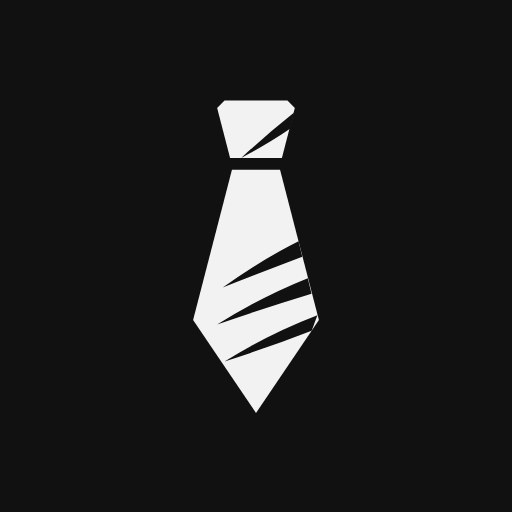
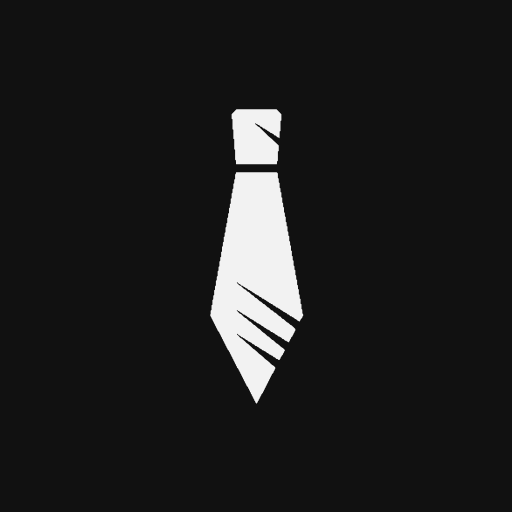
[продукт] Знак v2 вместо K3: значки, превью, экраны запуска, панель и вход

Changed region(s): [[0.375, 0.1875, 0.625, 0.8125]]

diff --git a/src/gas_pult/web/index.html b/src/gas_pult/web/index.html
@@ -85,9 +85,10 @@
   .toprow { padding: 8px 8px 8px 12px; display: flex; align-items: center; gap: 4px; }
   .tabsbar { padding: 0 12px 8px; } .tabsbar .seg { margin: 0; }
   .titles { flex: 1; min-width: 0; padding: 0 4px; }
-  .gmark { flex: none; color: var(--text-primary); }   /* знак K3: цвет — из темы (currentColor) */
-  .nmark { width: 18px; height: 18px; margin-right: -2px; } .lmark { display: block; width: 44px; height: 44px; margin: 4px 0 8px; }
-  .tmark { display: none; width: 24px; height: 24px; margin-left: 2px; } body:has(#title.brand-text) .tmark { display: block; }
+  .gmark { flex: none; display: inline-block; color: var(--text-primary); background: currentColor;   /* знак v2: цвет — из темы */
+           -webkit-mask: url(brand/gavrila-mark.svg) center / contain no-repeat; mask: url(brand/gavrila-mark.svg) center / contain no-repeat; }
+  .nmark { width: 9px; height: 22px; margin: 0 4px 0 2px; } .lmark { display: block; width: 20px; height: 54px; margin: 4px 0 8px; }
+  .tmark { display: none; width: 10px; height: 26px; margin: 0 2px 0 4px; } body:has(#title.brand-text) .tmark { display: block; }
   body.no-dup.has-nav:not(.side-mini) #top .tmark { visibility: hidden; }   /* на ПК знак — в панели, сверху не дублируем */
   .top h1 { margin: 0; font-size: calc(18px * var(--fz, 1)); font-weight: 600; letter-spacing: -.01em; line-height: 1.33; overflow: hidden; text-overflow: ellipsis; white-space: nowrap; }
   .sub { color: var(--text-secondary); font-size: calc(13px * var(--fz, 1)); display: flex; align-items: center; gap: 6px; min-width: 0; }
@@ -1127,7 +1128,6 @@
 </style>
 </head>
 <body>
-<svg width="0" height="0" style="position:absolute" aria-hidden="true"><symbol id="gmk" viewBox="0 0 100 100"><defs><mask id="gmkM"><rect width="100" height="100" fill="#fff"/><g fill="#000"><path d="M41 58.5 Q51.5 51 61.5 46 L62.5 50.2 Q52.5 54 41 58.5 Z"/><path d="M39.5 68.5 Q51.5 61 64 56 L65 60.2 Q52.5 64 39.5 68.5 Z"/><path d="M41.5 78.5 Q53.5 71 66.6 66 L65.04 70.2 Q54 74.5 41.5 78.5 Z"/><path d="M46 23.5 Q53 17 60.3 11.2 L59.2 15.6 Q53.5 19.5 46 23.5 Z"/></g></mask></defs><g fill="currentColor" mask="url(#gmkM)"><path d="M41.5 8 H58.5 L60.5 10 L57 23.5 H43 L39.5 10 Z"/><path d="M43.5 26.7 H56.5 L67 67.3 L50 92.4 L33 67.3 Z"/></g></symbol><symbol id="gmks" viewBox="0 0 100 100"><defs><mask id="gmkS"><rect width="100" height="100" fill="#fff"/><g fill="#000"><path d="M39 62 Q51 54 63 48 L65 55 Q53 59 39 62 Z"/><path d="M40 78 Q53 70 67.5 64.5 L66.5 72 Q55 75 40 78 Z"/><path d="M45 24 Q53 16 62 9.5 L60 16.5 Q53.5 20.5 45 24 Z"/></g></mask></defs><g fill="currentColor" mask="url(#gmkS)"><path d="M40 6 H60 L62.5 8.5 L58 23 H42 L37.5 8.5 Z"/><path d="M42.5 27 H57.5 L69 67 L50 94 L31 67 Z"/></g></symbol></svg>
 <div class="pvbar" id="previewBar" hidden role="status"></div>
 <!-- Зона уведомлений: всё всплывающее — здесь, под шапкой и выше нижней панели (NOTICES и notice() в скрипте). -->
 <div class="notices" id="notices">
@@ -1135,7 +1135,7 @@
   <div class="net" id="net" hidden role="status"><span id="netIcon" style="flex:none"></span><span id="netText">Нет связи с сервером</span><button id="netRetry"></button></div>
 </div>
 <aside class="nav" id="nav" aria-label="Чаты" inert>
-  <div class="nav-h"><svg class="gmark nmark" aria-hidden="true"><use href="#gmks"/></svg><h2 class="serif brand-text"><button type="button" id="navHome" class="nav-home" title="Главная: сессии и проекты">Гаврила</button></h2>
+  <div class="nav-h"><span class="gmark nmark" aria-hidden="true"></span><h2 class="serif brand-text"><button type="button" id="navHome" class="nav-home" title="Главная: сессии и проекты">Гаврила</button></h2>
     <button class="icon" id="navSearchBtn" type="button" aria-label="Поиск (Ctrl+K)" title="Поиск (Ctrl+K)"></button>
     <button class="icon" id="navFoldBtn" type="button" aria-label="Свернуть всё" title="Свернуть всё"></button>
     <button class="icon" id="navMoreBtn" type="button" aria-label="Ещё: новая папка, из модуля, в фокусе" title="Ещё" aria-haspopup="menu" aria-expanded="false"></button>
@@ -1156,7 +1156,7 @@
   <div class="toprow">
     <button class="icon" id="navBtn" hidden aria-label="Список чатов"></button>
     <button class="icon" id="backBtn" hidden aria-label="Назад"></button>
-    <svg class="gmark tmark" aria-hidden="true"><use href="#gmks"/></svg><div class="titles"><h1 class="serif" id="title">Гаврила</h1><div class="sub" id="subtitle"><span>загружаю…</span></div></div>
+    <span class="gmark tmark" aria-hidden="true"></span><div class="titles"><h1 class="serif" id="title">Гаврила</h1><div class="sub" id="subtitle"><span>загружаю…</span></div></div>
     <button class="icon" id="composeBtn" hidden aria-label="Новый чат" title="Новый чат"></button>
     <button class="icon" id="switchBtn" hidden aria-label="Другой чат"></button>
     <button class="icon" id="screenBtn" data-tour="screen" hidden aria-label="Экран терминала"></button>
@@ -1171,7 +1171,7 @@
   <section id="login" hidden>
     <div class="panel">
       <div class="scn-opts s-langsw" id="loginLang" role="group"></div>
-      <svg class="gmark lmark" aria-hidden="true"><use href="#gmk"/></svg><h2 class="serif" style="margin:2px 0 6px;font-size:21px" data-l="login.title">Вход</h2>
+      <span class="gmark lmark" aria-hidden="true"></span><h2 class="serif" style="margin:2px 0 6px;font-size:21px" data-l="login.title">Вход</h2>
       <p class="note" style="margin:0 0 12px" data-l="login.note">Пароль не нужен: подтвердите вход в своём Telegram. Нет доступа — бот спросит владельца.</p>
       <div id="loginStep1">
         <div class="result ok" id="inviteNote" hidden></div>

diff --git a/tools/brand_images.py b/tools/brand_images.py
@@ -1,4 +1,5 @@
-"""Картинки бренда из знака K3 (web/brand/gavrila-mark.svg): превью ссылки (og), экраны запуска iOS, maskable-иконка.
+"""Картинки бренда из знака v2 (web/brand/gavrila-mark.svg, lockup — gavrila-lockup.svg): значки вкладки и экрана
+«Домой», превью ссылки (og), экраны запуска iOS, maskable-иконка.
 Рисует браузер (Playwright, как в тестах интерфейса) — без новых зависимостей ядра. Запуск из корня репозитория:
     python tools/brand_images.py
 Пересобирать после смены знака или названия. Владелец 21.11: «миниатюра для PWA должна быть с лого»."""
@@ -10,6 +11,7 @@ from playwright.sync_api import sync_playwright
 ROOT = Path(__file__).resolve().parents[1]
 BRAND = ROOT / "src/gas_pult/web/brand"
 MARK = (BRAND / "gavrila-mark.svg").read_text(encoding="utf-8")
+LOCKUP = (BRAND / "gavrila-lockup.svg").read_text(encoding="utf-8")
 THEMES = {"light": ("#F4F4F2", "#111111", "#4B5563"), "dark": ("#111111", "#F2F2F2", "#9CA3AF")}   # фон, знак, подпись
 # iPhone: CSS-ширина × высота × плотность (портрет) — экраны запуска apple-touch-startup-image
 IPHONES = [(440, 956, 3), (430, 932, 3), (428, 926, 3), (402, 874, 3), (393, 852, 3), (390, 844, 3), (375, 812, 3),
@@ -22,8 +24,8 @@ def page(w, h, bg, body):
             f'justify-content:center;font-family:{FONT}">{body}</body></html>')
 
 
-def mark(size, color):
-    svg = MARK.replace("<svg ", '<svg width="100%" height="100%" ', 1)
+def mark(size, color, src=None):
+    svg = (src or MARK).replace("<svg ", '<svg width="100%" height="100%" ', 1)
     return f'<div style="width:{size}px;height:{size}px;color:{color}">{svg}</div>'
 
 
@@ -32,21 +34,23 @@ def main():
     with sync_playwright() as p:
         b = p.chromium.launch()
 
-        def shot(name, w, h, html, scale=1):
+        def shot(name, w, h, html, scale=1, clear=False):
             pg = b.new_page(viewport={"width": w, "height": h}, device_scale_factor=scale)
             pg.set_content(html)
-            pg.screenshot(path=str(BRAND / name))
+            pg.screenshot(path=str(BRAND / name), omit_background=clear)
             pg.close()
             out.append(name)
 
-        bg, fg, sub = THEMES["light"]                    # превью ссылки: светлое, знак слева, имя и строка справа
-        name = f'<div style="font-size:112px;font-weight:700;color:{fg};letter-spacing:-.02em">Гаврила</div>'
-        line = (f'<div style="font-size:36px;color:{sub};margin-top:12px;max-width:640px;line-height:1.3">'
-                "Агент делает рутину — вы подтверждаете «Да»</div>")
-        shot("og-1200x630.png", 1200, 630, page(1200, 630, bg, '<div style="display:flex;align-items:center;gap:56px">'
-             f"{mark(300, fg)}<div>{name}{line}</div></div>"))
+        bg, fg, _ = THEMES["dark"]                       # превью ссылки: lockup «знак + Gavrila» на тёмном, как образец
+        shot("og-1200x630.png", 1200, 630, page(1200, 630, bg, f'<div style="width:900px;height:353px;color:{fg}">'
+             + LOCKUP.replace("<svg ", '<svg width="100%" height="100%" ', 1) + "</div>"))
+        for name, size in (("icon-512.png", 512), ("icon-192.png", 192), ("apple-touch-180.png", 180)):   # «Домой»
+            shot(name, size, size, page(size, size, bg, mark(int(size * 0.62), fg)))
+        for t, (_, fg2, _) in THEMES.items():          # вкладка: прозрачный фон, знак во всю высоту
+            shot("favicon-32.png" if t == "light" else "favicon-32-dark.png", 32, 32,
+                 page(32, 32, "transparent", mark(30, fg2)), clear=True)
         bg, fg, _ = THEMES["dark"]                       # maskable: знак в безопасной зоне (круг 80 %) — высота 56 %
-        shot("icon-maskable-512.png", 512, 512, page(512, 512, bg, mark(286, fg)))
+        shot("icon-maskable-512.png", 512, 512, page(512, 512, bg, mark(300, fg)))   # высота знака 59 % — в круге 80 %
         for t, (bg, fg, _) in THEMES.items():            # экраны запуска iOS: знак по центру, имя под ним
             for w, h, s in IPHONES:
                 shot(f"splash-{w}x{h}-{t}.png", w, h, page(w, h, bg, f'<div style="text-align:center">{mark(120, fg)}'

diff --git a/src/gas_pult/brand.py b/src/gas_pult/brand.py
@@ -1,8 +1,10 @@
 """Название продукта, которое видит человек (владелец 20.11: «gavrila app»: латиницей — «Gavrila», по-русски —
 «Гаврила»; главный адрес будет gavrila.app). Здесь — единственное место: сервер подставляет его в страницу
 (``<meta name="application-name">``, ``<title>``), манифест для экрана «Домой», письма, уведомления и сообщения бота.
-Код, пакет и пути остаются ``gas-pult``/«пульт». Знак — K3 (владелец 20.11: галстук, срезанный узел, лезвие с перьями),
-файлы — ``web/brand/`` (источник — Диск владельца, «Бренд/Gavrila-знак-K3»)."""
+Код, пакет и пути остаются ``gas-pult``/«пульт». Знак — v2 (владелец 21.11: «возьми за основу это» — галстук с перьями
+и надпись Gavrila), файлы — ``web/brand/`` (источник — Диск владельца, «Бренд/Gavrila-знак-v2»). Малого варианта
+нет: перья крупные, на 16 px читается. В русском интерфейсе рядом со знаком — «Гаврила» текстом; lockup с латиницей —
+только превью ссылки и международное."""
 
 NAME = "Gavrila"                   # латиницей: английский интерфейс, адрес, логотип
 NAME_RU = "Гаврила"                # русский интерфейс (в русских строках — без латиницы, humanize.LATIN_OK)
@@ -11,9 +13,10 @@ DEFAULT = "Гаврила"                # так записано в web/index
 
 FILES_DIR = "web/brand/"   # знак и значки: gavrila-mark.svg (currentColor), -small (≤ 24 px), png — экран «Домой»
 MARK = FILES_DIR + "gavrila-mark.svg"
-MARK_SMALL = FILES_DIR + "gavrila-mark-small.svg"
+LOCKUP = FILES_DIR + "gavrila-lockup.svg"
 # адрес → (файл в web/brand/, тип): прежние адреса значков (GAS-20) сохранены, браузеры и iPhone их уже знают
-ICONS = {"/favicon.svg": ("favicon.svg", "image/svg+xml"), "/favicon-32.png": ("favicon-32.png", "image/png"),
+ICONS = {"/brand/gavrila-mark.svg": ("gavrila-mark.svg", "image/svg+xml"),   # знак в панели — CSS mask
+         "/favicon.svg": ("favicon.svg", "image/svg+xml"), "/favicon-32.png": ("favicon-32.png", "image/png"),
          "/favicon-32-dark.png": ("favicon-32-dark.png", "image/png"),
          "/apple-touch-icon.png": ("apple-touch-180.png", "image/png"),
          "/icon-192.png": ("icon-192.png", "image/png"), "/icon-512.png": ("icon-512.png", "image/png"),

diff --git a/tests/test_favicon.py b/tests/test_favicon.py
@@ -27,7 +27,7 @@ def test_files_and_links():
     assert size((BR / "icon-512.png").read_bytes()) == (512, 512)
     fav = (BR / "favicon.svg").read_text()
     assert fav.startswith("<svg") and "prefers-color-scheme:dark" in fav
-    for f in ("gavrila-mark.svg", "gavrila-mark-small.svg"):
+    for f in ("gavrila-mark.svg", "gavrila-lockup.svg"):
         assert 'fill="currentColor"' in (BR / f).read_text(), f
     for page in ("index.html", "offer.html", "terms.html"):
         t = (WEB / page).read_text(encoding="utf-8")
@@ -44,7 +44,7 @@ def test_served_without_login(tmp_path, monkeypatch):
         for path, ctype in (("/favicon.svg", "image/svg+xml"), ("/favicon-32.png", "image/png"),
                             ("/apple-touch-icon.png", "image/png"), ("/favicon.ico", "image/png"),
                             ("/favicon-32-dark.png", "image/png"), ("/icon-192.png", "image/png"),
-                            ("/icon-512.png", "image/png")):
+                            ("/icon-512.png", "image/png"), ("/brand/gavrila-mark.svg", "image/svg+xml")):
             with urllib.request.urlopen(base + path) as r:
                 assert r.status == 200 and r.headers["Content-Type"] == ctype
                 assert "max-age" in r.headers["Cache-Control"]
@@ -53,12 +53,11 @@ def test_served_without_login(tmp_path, monkeypatch):
         srv.shutdown()
 
 
-def test_mark_inline_in_panel():
-    """Знак — инлайн SVG (один symbol, три use): шапка панели, заголовок на телефоне, экран входа; цвет — из темы."""
+def test_mark_in_panel():
+    """Знак v2 (21.11) — CSS mask из /gavrila-mark.svg: цвет — из темы, без 19 КБ векторов в ядре; три места."""
     t = (WEB / "index.html").read_text(encoding="utf-8")
-    assert t.count('<symbol id="gmk"') == 1 and t.count('<symbol id="gmks"') == 1     # малый — для 24 px и меньше
-    assert t.count('<use href="#gmk"/>') == 1 and t.count('<use href="#gmks"/>') == 2
-    assert ".gmark { flex: none; color: var(--text-primary); }" in t
+    assert t.count('<span class="gmark ') == 3 and '<symbol id="gmk' not in t
+    assert "mask: url(brand/gavrila-mark.svg) center / contain no-repeat;" in t and "background: currentColor;" in t
     assert 'href="/favicon-32-dark.png" sizes="32x32" type="image/png" media="(prefers-color-scheme: dark)"' in t
 
 

diff --git a/CHANGELOG.md b/CHANGELOG.md
@@ -5,6 +5,9 @@
 ## [Не выпущено]
 
 ### Изменено
+- **Знак v2 вместо K3** (владелец 21.11: «возьми за основу это»). Галстук с крупными перьями и надпись Gavrila: значки вкладки (светлый и тёмный, прозрачные), экран «Домой» (180, 192, 512), maskable, превью ссылки — знак с надписью Gavrila на тёмном, как образец владельца, экраны запуска iOS. В панели, шапке и на входе знак рисуется CSS-маской из `brand/gavrila-mark.svg` — цвет из темы, ядро меньше на 1 КБ. В русском интерфейсе рядом со знаком — «Гаврила» текстом. Малого варианта нет: на 16 px силуэт читается, перья различимы с 24 px.
+
+### Изменено
 - **Брифинг и Задачи — без строк разработки** (разбор Gemini, №14). Вне режима разработчика в брифинге нет строк и решений из GitHub и HANDOFF.md (число решений в заголовке — по видимым), в задачах — задач «Выполнить команду». «Да» в брифинге — сдержанная кнопка, жёлтая рамка срочного — без заливки. На ПК «Задачи» — правой шторкой 400 px.
 
 ### Изменено
